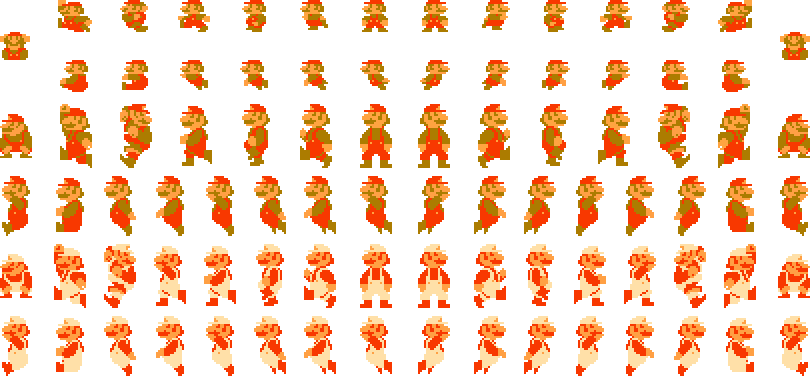
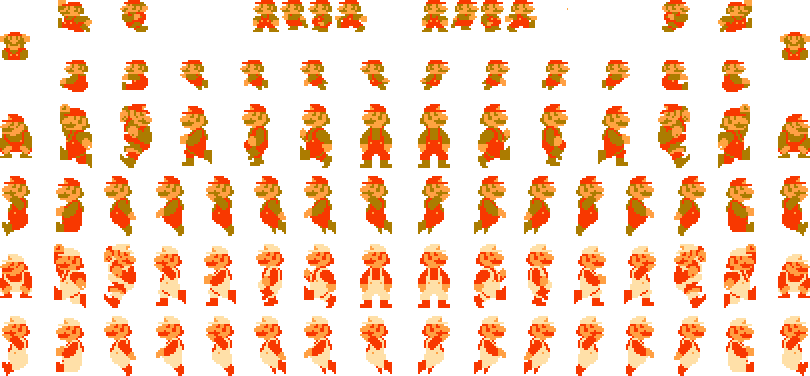
Player Animation and minor change to map1
Updated spritesheet for new changes

Changed region(s): [[0.216, 0.0, 0.4938, 0.0878], [0.5556, 0.0, 0.7099, 0.0878], [0.7407, 0.0, 0.8025, 0.0878]]

diff --git a/smb/src/smb/Player.java b/smb/src/smb/Player.java
@@ -17,7 +17,7 @@ public class Player extends VanillaAARectangle {
 	boolean onGround;
 	Rectangle2D boundingBox;
 	Vector2D tempVelocity, tempPosition;
-	final long frameTime = 800;
+	final long frameTime = 180;
 	
 	long timeSinceLastUpdate = frameTime;
 	boolean move = true;
@@ -41,7 +41,7 @@ public class Player extends VanillaAARectangle {
 	public boolean MARIO = true;
 
 	Player(int x, int y) {
-		super(Smb.SPRITE_SHEET + "#mario", 4);
+		super(Smb.SPRITE_SHEET2 + "#mario", 4);
 		position = new Vector2D(x * Smb.TILE_SIZE, y * Smb.TILE_SIZE);
 		currentVelocity = Vector2D.ZERO;
 		previousVelocity = Vector2D.ZERO;
@@ -91,8 +91,8 @@ public class Player extends VanillaAARectangle {
 		 * Uncomment this code once ready to animate the player
 		 */
 		
-	//	this.updateVelocity();
-	//	this.updateFrame(deltaMs);
+		this.updateVelocity();
+		this.updateFrame(deltaMs);
 	}
 	
 
@@ -100,48 +100,28 @@ public class Player extends VanillaAARectangle {
 		this.previousVelocity = this.currentVelocity;
 		this.currentVelocity = this.velocity;
 
-		if (this.previousVelocity.getX() > 0 && this.currentVelocity.getX() < 0) {
+	/*	if (this.previousVelocity.getX() > 0 && this.currentVelocity.getX() < 0) {
 			this.frames = ResourceFactory.getFactory().getFrames(
-					Smb.SPRITE_SHEET + "#marioleft");
-		} /* else if (this.previousVelocity.getX() == 0
+					smb.SPRITE_SHEET2 + "#marioleft");
+		} else if (this.previousVelocity.getX() == 0
 				&& this.currentVelocity.getX() < 0) {
 			this.frames = ResourceFactory.getFactory().getFrames(
-					smb.SPRITE_SHEET + "#marioleft");
-		} else if (this.previousVelocity.getX() < 0
+					smb.SPRITE_SHEET2 + "#marioleft");
+		} else */if (this.previousVelocity.getX() < 0
 				&& this.currentVelocity.getX() > 0) {
 			this.frames = ResourceFactory.getFactory().getFrames(
-					smb.SPRITE_SHEET + "#mario");
+					smb.SPRITE_SHEET2 + "#mario");
 		} else if (this.previousVelocity.getX() == 0
 				&& this.currentVelocity.getX() > 0) {
 			this.frames = ResourceFactory.getFactory().getFrames(
-					smb.SPRITE_SHEET + "#mario");
+					smb.SPRITE_SHEET2 + "#mario");
 		}
-
-		else if (this.previousVelocity.getY() < 0
-				&& this.currentVelocity.getY() > 0) {
-			this.frames = ResourceFactory.getFactory().getFrames(
-					smb.SPRITE_SHEET + "#mariodown");
-		} else if (this.previousVelocity.getY() == 0
-				&& this.currentVelocity.getY() > 0) {
-			this.frames = ResourceFactory.getFactory().getFrames(
-					smb.SPRITE_SHEET + "#mariodown");
-		}
-
-		else if (this.previousVelocity.getY() > 0
-				&& this.currentVelocity.getY() < 0) {
-			this.frames = ResourceFactory.getFactory().getFrames(
-					smb.SPRITE_SHEET + "#marioup");
-		} else if (this.previousVelocity.getY() == 0
-				&& this.currentVelocity.getY() < 0) {
-			this.frames = ResourceFactory.getFactory().getFrames(
-					smb.SPRITE_SHEET + "#marioup");
-		}*/
 	}
 	
 	public void updateFrame(long deltaMs) {
 
 		if (this.getVelocity().getX() == 0 && this.getVelocity().getY() == 0) {
-			this.setFrame(1);
+			this.setFrame(0);
 			this.timeSinceLastUpdate = this.frameTime;
 		} else {
 			this.timeSinceLastUpdate -= deltaMs;

diff --git a/smb/src/smb/Smb.java b/smb/src/smb/Smb.java
@@ -51,6 +51,7 @@ public class Smb extends ScrollingScreenGame {
 	int worldPixelLenght;
 	int worldPixelHeight;
 	static final String SPRITE_SHEET = "resources/mario-spritesheet.png";
+	static final String SPRITE_SHEET2 = "resources/smb_mario_sheet.png";
 	static final double deltaTime = 0.0001;
 	static int mapWidth, mapHeight;
 
